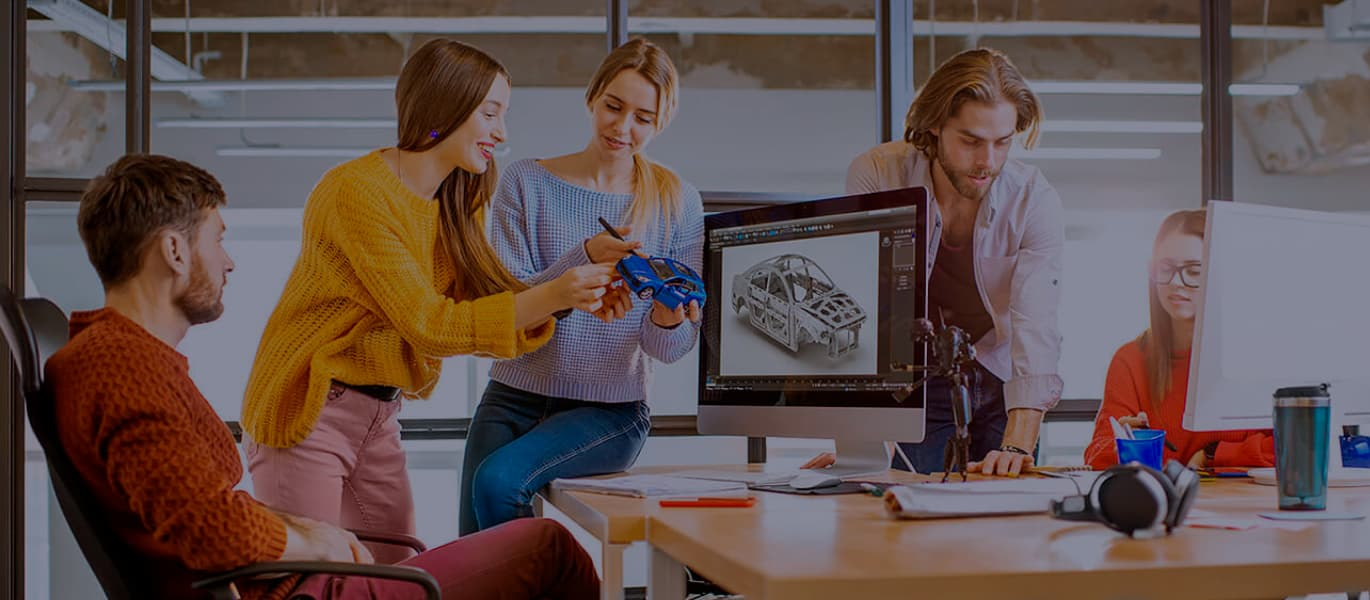
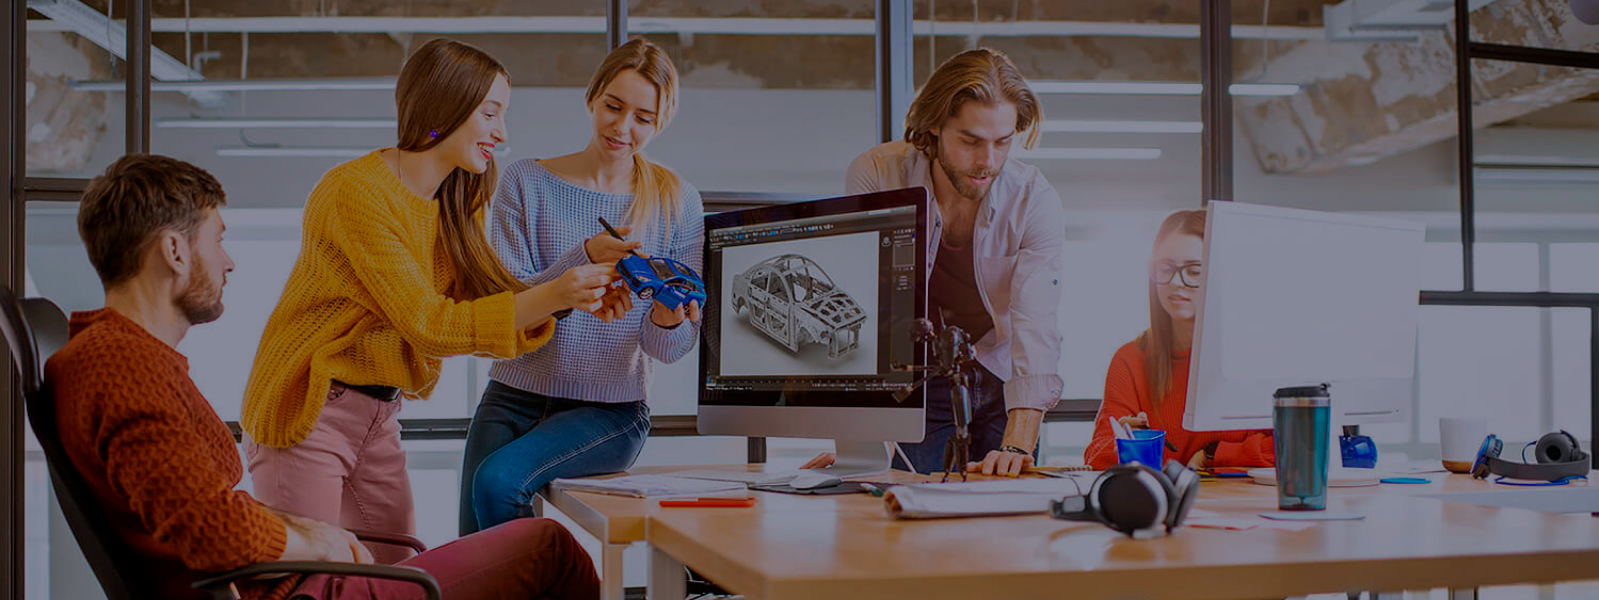
Aktualizacja Mobilna

diff --git a/css/main.min.css b/css/main.min.css
@@ -1,1 +1,1 @@
-body{font-family:"Roboto","Raleway",sans-serif;color:#212121}ul{padding:0;margin:0}p{padding:0}button{cursor:pointer}.container{max-width:100%;padding:0 15px;align-items:center}@media screen and (min-width: 480px)and (max-width: 767px){.container{max-width:480px;padding:0 15px;margin:auto}.button-filtr .container{align-items:center}}@media screen and (min-width: 768px)and (max-width: 1199px){.container{max-width:768px;padding:0 15px;margin:auto}.button-filtr .container{align-items:center}}@media screen and (min-width: 1200px){.container{max-width:1200px;margin:auto}.button-filtr .container{align-items:center}}.section{padding-top:94px;padding-bottom:94px}.logo{display:flex;font-family:"Raleway";font-weight:700;font-size:26px;text-decoration:none;color:#212121}.logo--blue{color:#2196f3}.logo--white{color:#fff}.page-header{border-bottom:1px solid #ececec;height:80px}.nav{display:flex;align-items:center;list-style-type:none}.nav__item{font-family:"Roboto";color:#212121;font-weight:500;font-size:14px}.nav__item--space-margin{margin-right:46px}.nav__link{text-decoration:none;cursor:pointer;color:#212121}.nav__link:active,.nav__link:hover{color:#2196f3}.nav__link--active::after{content:"";display:block;position:relative;border-top:4px solid #2196f3;border-radius:2px;top:29.5px}.adress{margin-left:auto;align-items:center;line-height:80px}.adress__link{font-family:"Roboto";font-weight:500;font-size:14px;text-decoration:none;cursor:pointer;color:#757575}.adress__link:active,.adress__link:hover{color:#2196f3}.adress__icon{fill:currentcolor;margin-right:10px}.adress__link--space-margin{margin-right:30px}.header-primary{font-family:"Roboto";font-weight:900;font-size:26px;text-align:center;color:#fff;line-height:1,615;letter-spacing:.06em;text-transform:uppercase;margin-bottom:30px;max-width:365px}@media screen and (min-width: 480px)and (max-width: 767px){.header-primary{font-family:"Roboto";font-weight:900;font-size:26px;text-align:center;color:#fff;line-height:1,615;letter-spacing:.06em;text-transform:uppercase;margin-bottom:30px;max-width:365px}}@media screen and (min-width: 768px)and (max-width: 1199px){.header-primary{font-family:"Roboto";font-weight:900;font-size:26px;text-align:center;color:#fff;line-height:1,615;letter-spacing:.06em;text-transform:uppercase;margin-bottom:30px;max-width:365px}}@media screen and (min-width: 1200px){.header-primary{font-family:"Roboto";font-weight:900;font-size:44px;text-align:center;color:#fff;line-height:1,363;letter-spacing:.06em;text-transform:uppercase;margin-bottom:30px;max-width:696px}}.header-second{font-family:"Roboto";font-style:normal;font-weight:700;font-size:36px;text-align:center;padding-top:0px;padding-bottom:50px;color:#212121}.backdrop{position:fixed;left:0;top:0;width:100%;height:100%;background-color:rgba(0,0,0,.1);transition:250ms cubic-bezier(0.4, 0, 0.2, 1)}.is-hidden{opacity:0;visibility:hidden;pointer-events:none}.modal{position:absolute;left:50%;top:50%;transform:translate(-50%, -50%) scale(1.25);background-color:#fff;width:528px;height:581px;box-shadow:0px 1px 3px rgba(0,0,0,.12),0px 1px 1px rgba(0,0,0,.14),0px 2px 1px rgba(0,0,0,.2);border-radius:4px}.modal__close-btn{position:absolute;top:8px;right:8px;width:30px;height:30px;background-color:#fff;border:1px solid rgba(0,0,0,.1);border-radius:50%;cursor:pointer}.modal__submit-btn{width:200px;height:50px;background:#2196f3;color:#fff;font-weight:700;font-size:16px;line-height:1.87;text-align:center;letter-spacing:.06em;margin:auto;margin-top:30px;border:none;border-radius:4px;box-shadow:0px 4px 4px rgba(0,0,0,.15)}.modal-form{display:flex;flex-direction:column}.modal-form__title{font-weight:700;font-size:20px;line-height:1.15;text-align:center;letter-spacing:.03em;color:#212121;margin-top:40px;margin-bottom:12px}.modal-form__label{font-size:12px;line-height:1.16;letter-spacing:.01em;margin-left:40px;margin-bottom:4px;margin-top:10px;color:#757575}.modal-form__label:focus-within svg,.modal-form__label:hover svg{fill:#2196f3;transition:250ms cubic-bezier(0.4, 0, 0.2, 1)}.modal-form__input{color:#757575;font-family:"Roboto";font-style:normal;font-weight:400;font-size:12px;display:block;border:1px solid rgba(33,33,33,.2);border-radius:4px;width:448px;height:40px;padding-left:42px}.modal-form__input:focus-within{border:1px solid #2196f3}.modal-form__input:hover{border:1px solid #2196f3;border-radius:4px;transition:250ms cubic-bezier(0.4, 0, 0.2, 1)}.modal-form__input:focus-visible{outline:none;border:1px solid #2196f3}.modal-form__icon-form{position:absolute;left:52px}.modal-form__icon-form--avatar{height:12px;width:12px;top:113px}.modal-form__icon-form--phone{height:13px;width:13px;top:181px}.modal-form__icon-form--envelope{width:15px;height:12px;top:249px}.modal-form__textarea{height:120px;width:448px;padding:12px 16px;resize:none;border:1px solid rgba(33,33,33,.2);border-radius:4px;color:#757575;font-family:"Roboto";font-style:normal;font-weight:400;font-size:12px;display:block}.modal-form__textarea::placeholder{color:rgba(117,117,117,.5);font-size:12px;line-height:1.16}.modal-form__textarea:hover{border:1px solid #2196f3;border-radius:4px;transition:250ms cubic-bezier(0.4, 0, 0.2, 1)}.modal-form__textarea:focus-visible{outline:none;border:1px solid #2196f3}.modal-form-policy{display:flex;justify-content:center;padding-right:40px;margin-top:0}.modal-form-policy__checkbox{position:absolute;opacity:0;width:448px;height:40px}.modal-form-policy__text{font-size:12px;line-height:1.16;letter-spacing:.01em;margin-left:40px;margin-bottom:4px;margin-top:10px;color:#757575}.modal-form-policy__text::before{display:inline-block;content:"";width:16px;height:15px;border-radius:2px;margin-right:7px;border:1px solid rgba(33,33,33,.2)}.modal-form-policy__link{color:#2196f3}.modal-form-policy__checkbox:checked+.modal-form-policy__text::before{background-color:#2196f3;border:none;background-image:url(../images/Vector.svg);background-repeat:no-repeat;background-position:center}.page-header .container{display:flex}.page-header__logo{margin-right:93px}.page-footer__logo{margin-bottom:20px}.navigation{display:flex}.bg-image{background:#2f303a;background-image:linear-gradient(rgba(47, 48, 58, 0.4), rgba(47, 48, 58, 0.4)),url("../images/header/header-bg-mobile.jpg");background-size:480px 400px;background-position:center;background-repeat:no-repeat}@media(min-device-pixel-ratio: 2),(min-resolution: 192dpi),(min-resolution: 2dppx){.bg-image{background-image:linear-gradient(rgba(47, 48, 58, 0.4), rgba(47, 48, 58, 0.4)),url("../images/header/header-bg-mobile@2x.jpg")}}@media screen and (min-width: 480px)and (max-width: 767px){.bg-image{background-image:linear-gradient(rgba(47, 48, 58, 0.4), rgba(47, 48, 58, 0.4)),url("../images/header/header-bg-mobile.jpg");background-size:480px 400px}}@media screen and (min-width: 768px)and (max-width: 1199px){.bg-image{background-image:linear-gradient(rgba(47, 48, 58, 0.4), rgba(47, 48, 58, 0.4)),url("../images/header/header-bg-tablet.jpg");background-size:735px 400px}}@media screen and (min-width: 1200px){.bg-image{background-image:linear-gradient(rgba(47, 48, 58, 0.4), rgba(47, 48, 58, 0.4)),url("../images/header/header-bg-desktop.jpg");background-size:1600px;height:600px;display:flex}}.main{display:flex;flex-direction:column;align-items:center;justify-content:center}.button-modal{background-color:#2196f3;width:200px;height:50px;border:0px;border-radius:4px;color:#fff;cursor:pointer}.button-modal__label{font-family:"Roboto";font-style:normal;font-weight:700;font-size:16px;line-height:1,875;color:#fff}.button-modal:active,.button-modal:hover{color:#fff;background-color:#2196f3;box-shadow:0px 3px 1px rgba(0,0,0,.1),0px 1px 2px rgba(0,0,0,.08),0px 2px 2px rgba(0,0,0,.12)}.lorem{padding-bottom:0px}.icon-lorem{display:block}.icon-lorem__list{list-style-type:none;display:flex;justify-content:space-between;margin-bottom:30px}.icon-lorem__item{width:270px;height:120px;background-color:#f5f4fa;display:flex;align-items:center;justify-content:center}.icon-lorem__svg{width:70px;height:70px}.lorem-text{display:block}.lorem-text__list{display:flex;justify-content:space-between;text-align:left;font-weight:400;list-style-type:none}.lorem-text__item{width:270px;height:120px}.lorem-text__title{font-family:"Roboto";font-style:normal;font-weight:700;font-size:14px;line-height:16px;text-transform:uppercase}.lorem-text__lorem-ipsum{font-family:"Roboto";font-style:normal;font-weight:400;font-size:14px;line-height:24px;color:#757575}.working{text-align:center}.working__list{list-style-type:none;display:flex;justify-content:space-between}.working__item{position:relative}.working__overlay{font-family:"Roboto";font-style:normal;font-weight:700;font-size:14px;line-height:16px;width:370px;height:70px;background:rgba(47,48,58,.8);position:absolute;display:flex;justify-content:center;align-items:center;text-transform:uppercase;color:#fff;top:75%}.our-team{display:flex;align-items:center;justify-content:space-between}.our-team--bg{background:#f5f4fa}.team{display:inline-block;background:#fff;box-shadow:0px 1px 3px rgba(0,0,0,.12),0px 1px 1px rgba(0,0,0,.14),0px 2px 1px rgba(0,0,0,.2);border-radius:0px 0px 4px 4px}.team__name{font-family:"Roboto";font-style:normal;font-weight:500;font-size:16px;line-height:19px;text-align:center}.team__job{font-family:"Roboto";font-style:normal;font-weight:400;font-size:16px;line-height:19px;text-align:center;color:#757575}.team__social-list{list-style-type:none;display:flex;align-items:center;justify-content:space-between;margin:0px 30px 30px}.team__social-item{display:flex;justify-content:space-around}.team__social-icon{display:flex;width:44px;height:44px;border-radius:50%;justify-content:center;align-items:center}.team__social-icon--hover:hover{background-color:#2196f3}.team__social-icon:hover svg{fill:#fff}.team__social-svg{width:20px;height:20px;fill:#afb1b8}.our-customers{list-style-type:none;display:flex;justify-content:space-between}.our-customers__item{width:170px;height:92px;border:1px solid #afb1b8;border-radius:4px;display:flex;justify-content:center;align-items:center}.our-customers__item:hover,.our-customers__item:hover svg{fill:#2196f3;border-color:#2196f3;cursor:pointer}.our-customers__icon{width:106px;height:60.04px;fill:#afb1b8}.page-footer{background:#2f303a;height:252px}.page-footer .container{display:flex;align-items:start}.footer-container{padding-top:60px}.footer-title{display:block;font-family:"Roboto";font-style:normal;font-weight:700;font-size:14px;color:#fff;margin-left:70px;margin-bottom:20px;text-transform:uppercase}.address-footer{display:block}.address-footer__street{font-family:"Roboto";font-style:normal;font-weight:400px;font-size:14px;color:#fff}.address-footer__link{font-family:"Roboto";font-style:normal;text-decoration:none;font-weight:400;font-size:14px;cursor:pointer;color:rgba(255,255,255,.6)}.address-footer__link:active,.address-footer__link:hover{color:#2196f3}.address-footer--space-margin{margin-bottom:9px}.social-media-footer{display:flex;align-items:center;margin-left:55px;list-style-type:none}.social-media-footer__item{fill:#fff}.social-media-footer__icon{display:flex;justify-content:center;align-items:center;align-self:center;width:44px;height:44px;margin-left:10px;border-radius:50%;background-color:rgba(255,255,255,.1)}.social-media-footer__icon--link{text-decoration:none;cursor:pointer;color:#757575}.social-media-footer__icon:hover{background-color:#2196f3}.social-media-footer__icon:hover svg{fill:#fff}.social-media-footer__svg{width:20px;height:20px;fill:#fff}.newsletter-footer{display:flex;align-items:center;margin-left:70px}.newsletter{display:block}.newsletter__email{font-family:"Roboto";font-style:normal;font-weight:400;font-size:16px;border:1px solid rgba(255,255,255,.3);filter:drop-shadow(0px 4px 4px rgba(0, 0, 0, 0.15));border-radius:4px;width:358px;height:50px;background-color:rgba(0,0,0,0);color:#757575;padding:16px}.newsletter__email--focus:focus{border:1px solid rgba(255,255,255,.3)}.newsletter-btn{font-family:"Roboto";font-style:normal;font-weight:700;font-size:16px;width:200px;height:50px;background:#2196f3;color:#fff;line-height:1.87;text-align:center;align-items:center;letter-spacing:.06em;margin:auto;margin-top:30px;border:none;border-radius:4px;box-shadow:0px 4px 4px rgba(0,0,0,.15);margin-left:12px;margin-top:0px;cursor:pointer}.newsletter-btn__icon{fill:#fff;width:24px;height:24px;position:relative;left:15px;top:5px}.button-filtr{display:flex;list-style-type:none;justify-content:center;padding-bottom:34px}.button-filtr__item:not(:last-child){margin-right:8px}.button-filtr__text{background-color:#f5f4fa;border:0px;border-radius:4px;padding:6px 22px;font-weight:500;font-size:16px}.button-filtr__text:active,.button-filtr__text:hover{color:#fff;background-color:#2196f3;box-shadow:0px 3px 1px rgba(0,0,0,.1),0px 1px 2px rgba(0,0,0,.08),0px 2px 2px rgba(0,0,0,.12)}.grid{display:flex;flex-wrap:wrap;list-style-type:none;justify-content:space-between}.grid__item{margin-bottom:30px;display:flex;flex-direction:column;overflow:hidden}.grid__img{position:absolute}.grid__overlay{position:relative;height:294px;width:370px}.grid__overlay-item{position:absolute;top:0;left:0;width:100%;height:100%;background-color:#2196f3;opacity:90%;transform:translatey(100%);transition:transform 250ms ease}.grid__overlay-text{font-size:18px;line-height:1.55;letter-spacing:.03em;color:#fff;padding-top:49px;padding:4px 24px 20px 24px}.grid__header{border-right:1px solid #eee;border-bottom:1px solid #eee;border-left:1px solid #eee;background-color:#fff;z-index:1001}.grid__name{text-align:left;font-weight:700;font-size:18px;padding:20px 24px 4px;margin-top:0px}.grid__type{color:#757575;text-align:left;font-weight:400;font-size:16px;margin:0px 24px 20px}.grid__item:hover .grid__overlay-item{transform:translateX(0)}.grid .grid__item:hover{box-shadow:0px 1px 1px rgba(0,0,0,.12),0px 4px 4px rgba(0,0,0,.06),1px 4px 6px rgba(0,0,0,.16);cursor:pointer}/*# sourceMappingURL=main.min.css.map */
+body{font-family:"Roboto","Raleway",sans-serif;color:#212121}ul{padding:0;margin:0}p{padding:0}button{cursor:pointer}.container{max-width:100%;padding:0 15px;align-items:center}@media screen and (min-width: 480px)and (max-width: 767px){.container{max-width:480px;padding:0 15px;margin:auto}.button-filtr .container{align-items:center}}@media screen and (min-width: 768px)and (max-width: 1199px){.container{max-width:768px;padding:0 15px;margin:auto}.button-filtr .container{align-items:center}}@media screen and (min-width: 1200px){.container{max-width:1200px;margin:auto}.button-filtr .container{align-items:center}}.section{padding-top:94px;padding-bottom:94px}.logo{display:flex;font-family:"Raleway";font-weight:700;font-size:26px;text-decoration:none;color:#212121}.logo--blue{color:#2196f3}.logo--white{color:#fff}.page-header{border-bottom:1px solid #ececec;height:80px}.nav{display:flex;align-items:center;list-style-type:none}.nav__item{font-family:"Roboto";color:#212121;font-weight:500;font-size:14px}.nav__item--space-margin{margin-right:46px}.nav__link{text-decoration:none;cursor:pointer;color:#212121}.nav__link:active,.nav__link:hover{color:#2196f3}.nav__link--active::after{content:"";display:block;position:relative;border-top:4px solid #2196f3;border-radius:2px;top:29.5px}.adress{margin-left:auto;align-items:center;line-height:80px}.adress__link{font-family:"Roboto";font-weight:500;font-size:14px;text-decoration:none;cursor:pointer;color:#757575}.adress__link:active,.adress__link:hover{color:#2196f3}.adress__icon{fill:currentcolor;margin-right:10px}.adress__link--space-margin{margin-right:30px}.header-primary{font-family:"Roboto";font-weight:900;font-size:26px;text-align:center;color:#fff;line-height:1,615;letter-spacing:.06em;text-transform:uppercase;margin-bottom:30px;max-width:365px}@media screen and (min-width: 480px)and (max-width: 767px){.header-primary{font-family:"Roboto";font-weight:900;font-size:26px;text-align:center;color:#fff;line-height:1,615;letter-spacing:.06em;text-transform:uppercase;margin-bottom:30px;max-width:365px}}@media screen and (min-width: 768px)and (max-width: 1199px){.header-primary{font-family:"Roboto";font-weight:900;font-size:26px;text-align:center;color:#fff;line-height:1,615;letter-spacing:.06em;text-transform:uppercase;margin-bottom:30px;max-width:365px}}@media screen and (min-width: 1200px){.header-primary{font-family:"Roboto";font-weight:900;font-size:44px;text-align:center;color:#fff;line-height:1,363;letter-spacing:.06em;text-transform:uppercase;margin-bottom:30px;max-width:696px}}.header-second{font-family:"Roboto";font-style:normal;font-weight:700;font-size:36px;text-align:center;padding-top:0px;padding-bottom:50px;color:#212121}.backdrop{position:fixed;left:0;top:0;width:100%;height:100%;background-color:rgba(0,0,0,.1);transition:250ms cubic-bezier(0.4, 0, 0.2, 1)}.is-hidden{opacity:0;visibility:hidden;pointer-events:none}.modal{position:absolute;left:50%;top:50%;transform:translate(-50%, -50%) scale(1.25);background-color:#fff;width:528px;height:581px;box-shadow:0px 1px 3px rgba(0,0,0,.12),0px 1px 1px rgba(0,0,0,.14),0px 2px 1px rgba(0,0,0,.2);border-radius:4px}.modal__close-btn{position:absolute;top:8px;right:8px;width:30px;height:30px;background-color:#fff;border:1px solid rgba(0,0,0,.1);border-radius:50%;cursor:pointer}.modal__submit-btn{width:200px;height:50px;background:#2196f3;color:#fff;font-weight:700;font-size:16px;line-height:1.87;text-align:center;letter-spacing:.06em;margin:auto;margin-top:30px;border:none;border-radius:4px;box-shadow:0px 4px 4px rgba(0,0,0,.15)}.modal-form{display:flex;flex-direction:column}.modal-form__title{font-weight:700;font-size:20px;line-height:1.15;text-align:center;letter-spacing:.03em;color:#212121;margin-top:40px;margin-bottom:12px}.modal-form__label{font-size:12px;line-height:1.16;letter-spacing:.01em;margin-left:40px;margin-bottom:4px;margin-top:10px;color:#757575}.modal-form__label:focus-within svg,.modal-form__label:hover svg{fill:#2196f3;transition:250ms cubic-bezier(0.4, 0, 0.2, 1)}.modal-form__input{color:#757575;font-family:"Roboto";font-style:normal;font-weight:400;font-size:12px;display:block;border:1px solid rgba(33,33,33,.2);border-radius:4px;width:448px;height:40px;padding-left:42px}.modal-form__input:focus-within{border:1px solid #2196f3}.modal-form__input:hover{border:1px solid #2196f3;border-radius:4px;transition:250ms cubic-bezier(0.4, 0, 0.2, 1)}.modal-form__input:focus-visible{outline:none;border:1px solid #2196f3}.modal-form__icon-form{position:absolute;left:52px}.modal-form__icon-form--avatar{height:12px;width:12px;top:113px}.modal-form__icon-form--phone{height:13px;width:13px;top:181px}.modal-form__icon-form--envelope{width:15px;height:12px;top:249px}.modal-form__textarea{height:120px;width:448px;padding:12px 16px;resize:none;border:1px solid rgba(33,33,33,.2);border-radius:4px;color:#757575;font-family:"Roboto";font-style:normal;font-weight:400;font-size:12px;display:block}.modal-form__textarea::placeholder{color:rgba(117,117,117,.5);font-size:12px;line-height:1.16}.modal-form__textarea:hover{border:1px solid #2196f3;border-radius:4px;transition:250ms cubic-bezier(0.4, 0, 0.2, 1)}.modal-form__textarea:focus-visible{outline:none;border:1px solid #2196f3}.modal-form-policy{display:flex;justify-content:center;padding-right:40px;margin-top:0}.modal-form-policy__checkbox{position:absolute;opacity:0;width:448px;height:40px}.modal-form-policy__text{font-size:12px;line-height:1.16;letter-spacing:.01em;margin-left:40px;margin-bottom:4px;margin-top:10px;color:#757575}.modal-form-policy__text::before{display:inline-block;content:"";width:16px;height:15px;border-radius:2px;margin-right:7px;border:1px solid rgba(33,33,33,.2)}.modal-form-policy__link{color:#2196f3}.modal-form-policy__checkbox:checked+.modal-form-policy__text::before{background-color:#2196f3;border:none;background-image:url(../images/Vector.svg);background-repeat:no-repeat;background-position:center}.page-header .container{display:flex}.page-header__logo{margin-right:93px}.page-footer__logo{margin-bottom:20px}.navigation{display:flex}.bg-image{background:#2f303a;background-image:linear-gradient(rgba(47, 48, 58, 0.4), rgba(47, 48, 58, 0.4)),url("../images/header/header-bg-mobile.jpg");background-size:480px 400px;background-position:center;background-repeat:no-repeat}@media(min-device-pixel-ratio: 2),(min-resolution: 192dpi),(min-resolution: 2dppx){.bg-image{background-image:linear-gradient(rgba(47, 48, 58, 0.4), rgba(47, 48, 58, 0.4)),url("../images/header/header-bg-mobile@2x.jpg")}}@media screen and (min-width: 480px)and (max-width: 767px){.bg-image{background-image:linear-gradient(rgba(47, 48, 58, 0.4), rgba(47, 48, 58, 0.4)),url("../images/header/header-bg-mobile.jpg");background-size:480px 400px}}@media screen and (min-width: 480px)and (max-width: 767px)and (min-device-pixel-ratio: 2),(min-resolution: 192dpi),(min-resolution: 2dppx){.bg-image{background-image:linear-gradient(rgba(47, 48, 58, 0.4), rgba(47, 48, 58, 0.4)),url("../images/header/header-bg-mobile@2x.jpg")}}@media screen and (min-width: 768px)and (max-width: 1199px){.bg-image{background-image:linear-gradient(rgba(47, 48, 58, 0.4), rgba(47, 48, 58, 0.4)),url("../images/header/header-bg-tablet.jpg");background-size:735px 400px}}@media screen and (min-width: 768px)and (max-width: 1199px)and (min-device-pixel-ratio: 2),(min-resolution: 192dpi),(min-resolution: 2dppx){.bg-image{background-image:linear-gradient(rgba(47, 48, 58, 0.4), rgba(47, 48, 58, 0.4)),url("../images/header/header-bg-tablet@2x.jpg")}}@media screen and (min-width: 1200px){.bg-image{background-image:linear-gradient(rgba(47, 48, 58, 0.4), rgba(47, 48, 58, 0.4)),url("../images/header/header-bg-desktop.jpg");background-size:1600px;height:600px;display:flex}}@media screen and (min-width: 1200px)and (min-device-pixel-ratio: 2),(min-resolution: 192dpi),(min-resolution: 2dppx){.bg-image{background-image:linear-gradient(rgba(47, 48, 58, 0.4), rgba(47, 48, 58, 0.4)),url("../images/header/header-bg-desktop@2x.jpg")}}.main{display:flex;flex-direction:column;align-items:center;justify-content:center}.button-modal{background-color:#2196f3;width:200px;height:50px;border:0px;border-radius:4px;color:#fff;cursor:pointer}.button-modal__label{font-family:"Roboto";font-style:normal;font-weight:700;font-size:16px;line-height:1,875;color:#fff}.button-modal:active,.button-modal:hover{color:#fff;background-color:#2196f3;box-shadow:0px 3px 1px rgba(0,0,0,.1),0px 1px 2px rgba(0,0,0,.08),0px 2px 2px rgba(0,0,0,.12)}.lorem{padding-bottom:0px}.icon-lorem{display:block}.icon-lorem__list{list-style-type:none;display:flex;justify-content:space-between;margin-bottom:30px}.icon-lorem__item{width:270px;height:120px;background-color:#f5f4fa;display:flex;align-items:center;justify-content:center}.icon-lorem__svg{width:70px;height:70px}.lorem-text{display:block}.lorem-text__list{display:flex;justify-content:space-between;text-align:left;font-weight:400;list-style-type:none}.lorem-text__item{width:270px;height:120px}.lorem-text__title{font-family:"Roboto";font-style:normal;font-weight:700;font-size:14px;line-height:16px;text-transform:uppercase}.lorem-text__lorem-ipsum{font-family:"Roboto";font-style:normal;font-weight:400;font-size:14px;line-height:24px;color:#757575}.working{text-align:center}.working__list{list-style-type:none;display:flex;justify-content:space-between}.working__item{position:relative}.working__overlay{font-family:"Roboto";font-style:normal;font-weight:700;font-size:14px;line-height:16px;width:370px;height:70px;background:rgba(47,48,58,.8);position:absolute;display:flex;justify-content:center;align-items:center;text-transform:uppercase;color:#fff;top:75%}.our-team{display:flex;align-items:center;justify-content:space-between}.our-team--bg{background:#f5f4fa}.team{display:inline-block;background:#fff;box-shadow:0px 1px 3px rgba(0,0,0,.12),0px 1px 1px rgba(0,0,0,.14),0px 2px 1px rgba(0,0,0,.2);border-radius:0px 0px 4px 4px}.team__name{font-family:"Roboto";font-style:normal;font-weight:500;font-size:16px;line-height:19px;text-align:center}.team__job{font-family:"Roboto";font-style:normal;font-weight:400;font-size:16px;line-height:19px;text-align:center;color:#757575}.team__social-list{list-style-type:none;display:flex;align-items:center;justify-content:space-between;margin:0px 30px 30px}.team__social-item{display:flex;justify-content:space-around}.team__social-icon{display:flex;width:44px;height:44px;border-radius:50%;justify-content:center;align-items:center}.team__social-icon--hover:hover{background-color:#2196f3}.team__social-icon:hover svg{fill:#fff}.team__social-svg{width:20px;height:20px;fill:#afb1b8}.our-customers{list-style-type:none;display:flex;justify-content:space-between}.our-customers__item{width:170px;height:92px;border:1px solid #afb1b8;border-radius:4px;display:flex;justify-content:center;align-items:center}.our-customers__item:hover,.our-customers__item:hover svg{fill:#2196f3;border-color:#2196f3;cursor:pointer}.our-customers__icon{width:106px;height:60.04px;fill:#afb1b8}.page-footer{background:#2f303a;height:252px}.page-footer .container{display:flex;align-items:start}.footer-container{padding-top:60px}.footer-title{display:block;font-family:"Roboto";font-style:normal;font-weight:700;font-size:14px;color:#fff;margin-left:70px;margin-bottom:20px;text-transform:uppercase}.address-footer{display:block}.address-footer__street{font-family:"Roboto";font-style:normal;font-weight:400px;font-size:14px;color:#fff}.address-footer__link{font-family:"Roboto";font-style:normal;text-decoration:none;font-weight:400;font-size:14px;cursor:pointer;color:rgba(255,255,255,.6)}.address-footer__link:active,.address-footer__link:hover{color:#2196f3}.address-footer--space-margin{margin-bottom:9px}.social-media-footer{display:flex;align-items:center;margin-left:55px;list-style-type:none}.social-media-footer__item{fill:#fff}.social-media-footer__icon{display:flex;justify-content:center;align-items:center;align-self:center;width:44px;height:44px;margin-left:10px;border-radius:50%;background-color:rgba(255,255,255,.1)}.social-media-footer__icon--link{text-decoration:none;cursor:pointer;color:#757575}.social-media-footer__icon:hover{background-color:#2196f3}.social-media-footer__icon:hover svg{fill:#fff}.social-media-footer__svg{width:20px;height:20px;fill:#fff}.newsletter-footer{display:flex;align-items:center;margin-left:70px}.newsletter{display:block}.newsletter__email{font-family:"Roboto";font-style:normal;font-weight:400;font-size:16px;border:1px solid rgba(255,255,255,.3);filter:drop-shadow(0px 4px 4px rgba(0, 0, 0, 0.15));border-radius:4px;width:358px;height:50px;background-color:rgba(0,0,0,0);color:#757575;padding:16px}.newsletter__email--focus:focus{border:1px solid rgba(255,255,255,.3)}.newsletter-btn{font-family:"Roboto";font-style:normal;font-weight:700;font-size:16px;width:200px;height:50px;background:#2196f3;color:#fff;line-height:1.87;text-align:center;align-items:center;letter-spacing:.06em;margin:auto;margin-top:30px;border:none;border-radius:4px;box-shadow:0px 4px 4px rgba(0,0,0,.15);margin-left:12px;margin-top:0px;cursor:pointer}.newsletter-btn__icon{fill:#fff;width:24px;height:24px;position:relative;left:15px;top:5px}.button-filtr{display:flex;list-style-type:none;justify-content:center;padding-bottom:34px}.button-filtr__item:not(:last-child){margin-right:8px}.button-filtr__text{background-color:#f5f4fa;border:0px;border-radius:4px;padding:6px 22px;font-weight:500;font-size:16px}.button-filtr__text:active,.button-filtr__text:hover{color:#fff;background-color:#2196f3;box-shadow:0px 3px 1px rgba(0,0,0,.1),0px 1px 2px rgba(0,0,0,.08),0px 2px 2px rgba(0,0,0,.12)}.grid{display:flex;flex-wrap:wrap;list-style-type:none;justify-content:space-between}.grid__item{margin-bottom:30px;display:flex;flex-direction:column;overflow:hidden}.grid__img{position:absolute}.grid__overlay{position:relative;height:294px;width:370px}.grid__overlay-item{position:absolute;top:0;left:0;width:100%;height:100%;background-color:#2196f3;opacity:90%;transform:translatey(100%);transition:transform 250ms ease}.grid__overlay-text{font-size:18px;line-height:1.55;letter-spacing:.03em;color:#fff;padding-top:49px;padding:4px 24px 20px 24px}.grid__header{border-right:1px solid #eee;border-bottom:1px solid #eee;border-left:1px solid #eee;background-color:#fff;z-index:1001}.grid__name{text-align:left;font-weight:700;font-size:18px;padding:20px 24px 4px;margin-top:0px}.grid__type{color:#757575;text-align:left;font-weight:400;font-size:16px;margin:0px 24px 20px}.grid__item:hover .grid__overlay-item{transform:translateX(0)}.grid .grid__item:hover{box-shadow:0px 1px 1px rgba(0,0,0,.12),0px 4px 4px rgba(0,0,0,.06),1px 4px 6px rgba(0,0,0,.16);cursor:pointer}/*# sourceMappingURL=main.min.css.map */

diff --git a/sass/main.css b/sass/main.css
@@ -459,18 +459,31 @@ button {
     background-image: linear-gradient(rgba(47, 48, 58, 0.4), rgba(47, 48, 58, 0.4)), url("../images/header/header-bg-mobile@2x.jpg");
   }
 }
+/* Mobile */
 @media screen and (min-width: 480px) and (max-width: 767px) {
   .bg-image {
     background-image: linear-gradient(rgba(47, 48, 58, 0.4), rgba(47, 48, 58, 0.4)), url("../images/header/header-bg-mobile.jpg");
     background-size: 480px 400px;
   }
 }
+@media screen and (min-width: 480px) and (max-width: 767px) and (min-device-pixel-ratio: 2), (min-resolution: 192dpi), (min-resolution: 2dppx) {
+  .bg-image {
+    background-image: linear-gradient(rgba(47, 48, 58, 0.4), rgba(47, 48, 58, 0.4)), url("../images/header/header-bg-mobile@2x.jpg");
+  }
+}
+/* Tablet */
 @media screen and (min-width: 768px) and (max-width: 1199px) {
   .bg-image {
     background-image: linear-gradient(rgba(47, 48, 58, 0.4), rgba(47, 48, 58, 0.4)), url("../images/header/header-bg-tablet.jpg");
     background-size: 735px 400px;
   }
 }
+@media screen and (min-width: 768px) and (max-width: 1199px) and (min-device-pixel-ratio: 2), (min-resolution: 192dpi), (min-resolution: 2dppx) {
+  .bg-image {
+    background-image: linear-gradient(rgba(47, 48, 58, 0.4), rgba(47, 48, 58, 0.4)), url("../images/header/header-bg-tablet@2x.jpg");
+  }
+}
+/* Desktop */
 @media screen and (min-width: 1200px) {
   .bg-image {
     background-image: linear-gradient(rgba(47, 48, 58, 0.4), rgba(47, 48, 58, 0.4)), url("../images/header/header-bg-desktop.jpg");
@@ -479,6 +492,12 @@ button {
     display: flex;
   }
 }
+@media screen and (min-width: 1200px) and (min-device-pixel-ratio: 2), (min-resolution: 192dpi), (min-resolution: 2dppx) {
+  .bg-image {
+    background-image: linear-gradient(rgba(47, 48, 58, 0.4), rgba(47, 48, 58, 0.4)), url("../images/header/header-bg-desktop@2x.jpg");
+  }
+}
+/*-----------------------------------------------------------*/
 .main {
   display: flex;
   flex-direction: column;

diff --git a/sass/layout/_main-header.scss b/sass/layout/_main-header.scss
@@ -14,6 +14,8 @@
   }
 }
 
+/* Mobile */
+
 @media screen and (min-width:480px) and (max-width: 767px) {
   .bg-image {
     background-image: linear-gradient(rgba(47, 48, 58, 0.4), rgba(47, 48, 58, 0.4)), url("../images/header/header-bg-mobile.jpg");
@@ -21,12 +23,28 @@
   }
 }
 
+@media screen and (min-width:480px) and (max-width: 767px) and (min-device-pixel-ratio: 2), (min-resolution: 192dpi), (min-resolution: 2dppx) {
+  .bg-image {
+    background-image: linear-gradient(rgba(47, 48, 58, 0.4), rgba(47, 48, 58, 0.4)), url('../images/header/header-bg-mobile@2x.jpg');
+  }
+}
+
+/* Tablet */
+
 @media screen and (min-width:768px) and (max-width: 1199px) {
   .bg-image {
     background-image: linear-gradient(rgba(47, 48, 58, 0.4), rgba(47, 48, 58, 0.4)), url("../images/header/header-bg-tablet.jpg");
     background-size: 735px 400px;
   }
 }
+
+@media screen and (min-width:768px) and (max-width: 1199px) and (min-device-pixel-ratio: 2), (min-resolution: 192dpi), (min-resolution: 2dppx) {
+  .bg-image {
+    background-image: linear-gradient(rgba(47, 48, 58, 0.4), rgba(47, 48, 58, 0.4)), url('../images/header/header-bg-tablet@2x.jpg');
+  }
+}
+
+/* Desktop */
 
 @media screen and (min-width:1200px) {
   .bg-image {
@@ -36,6 +54,14 @@
     display: flex;
   }
 }
+
+@media screen and (min-width:1200px) and (min-device-pixel-ratio: 2), (min-resolution: 192dpi), (min-resolution: 2dppx) {
+  .bg-image {
+    background-image: linear-gradient(rgba(47, 48, 58, 0.4), rgba(47, 48, 58, 0.4)), url('../images/header/header-bg-desktop@2x.jpg');
+  }
+}
+
+/*-----------------------------------------------------------*/
 
 .main {
   display: flex;
